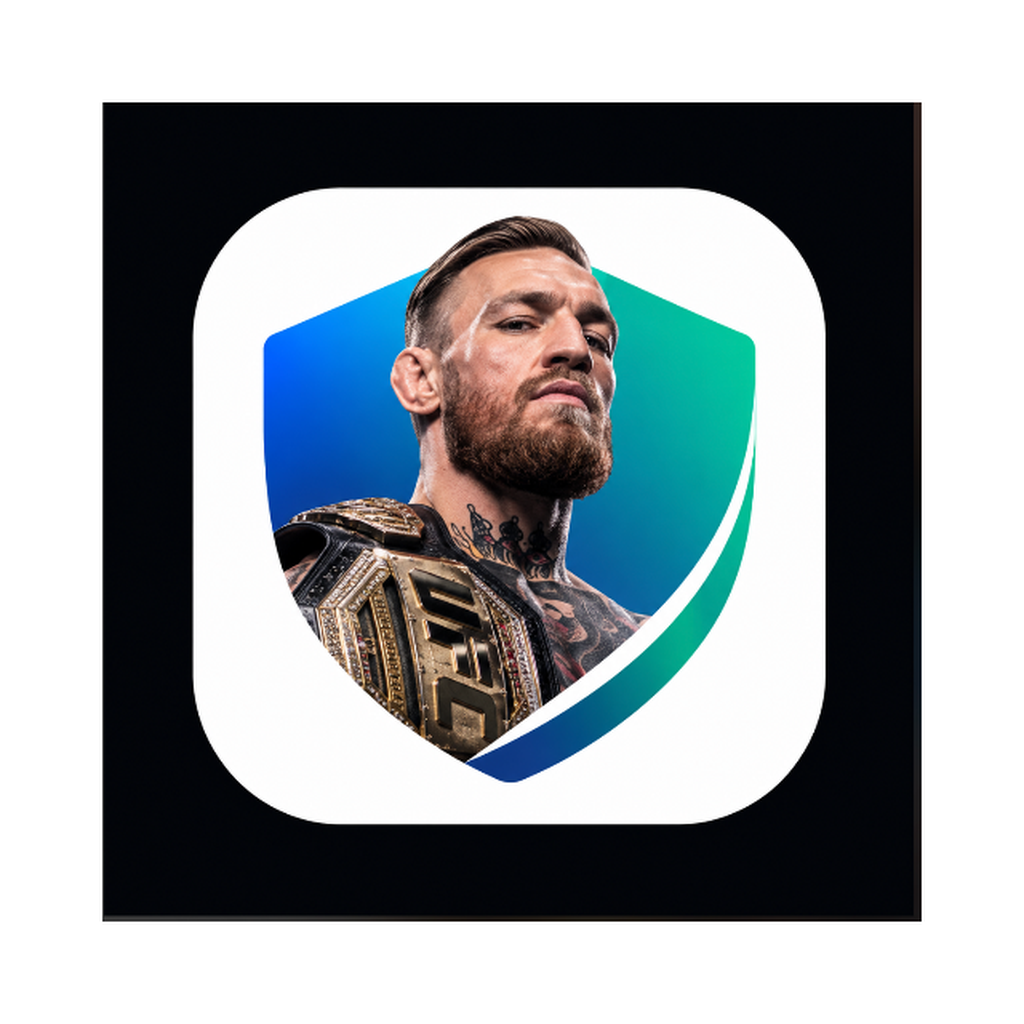
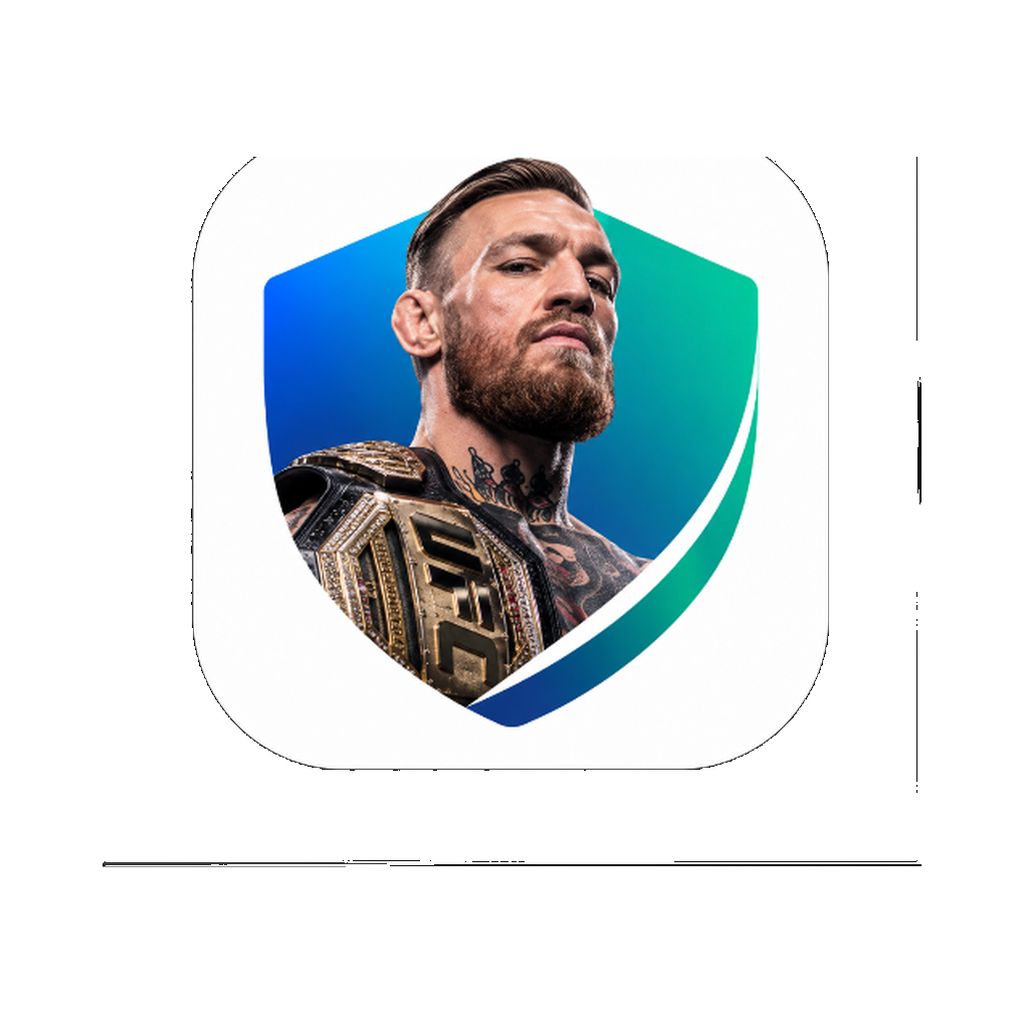
Иконка автоматически приведена в порядок

diff --git a/index.html b/index.html
@@ -6,8 +6,8 @@
   <title>Спорт</title>
   <meta name="theme-color" content="#0c0d2b">
   <link rel="manifest" href="manifest.json">
-  <link rel="icon" href="icon.png?v=1ef151b8">
-  <link rel="apple-touch-icon" href="icon.png?v=1ef151b8">
+  <link rel="icon" href="icon.png?v=c47c52b9">
+  <link rel="apple-touch-icon" href="icon.png?v=c47c52b9">
   <meta name="apple-mobile-web-app-capable" content="yes">
   <meta name="mobile-web-app-capable" content="yes">
   <meta name="apple-mobile-web-app-status-bar-style" content="black-translucent">
